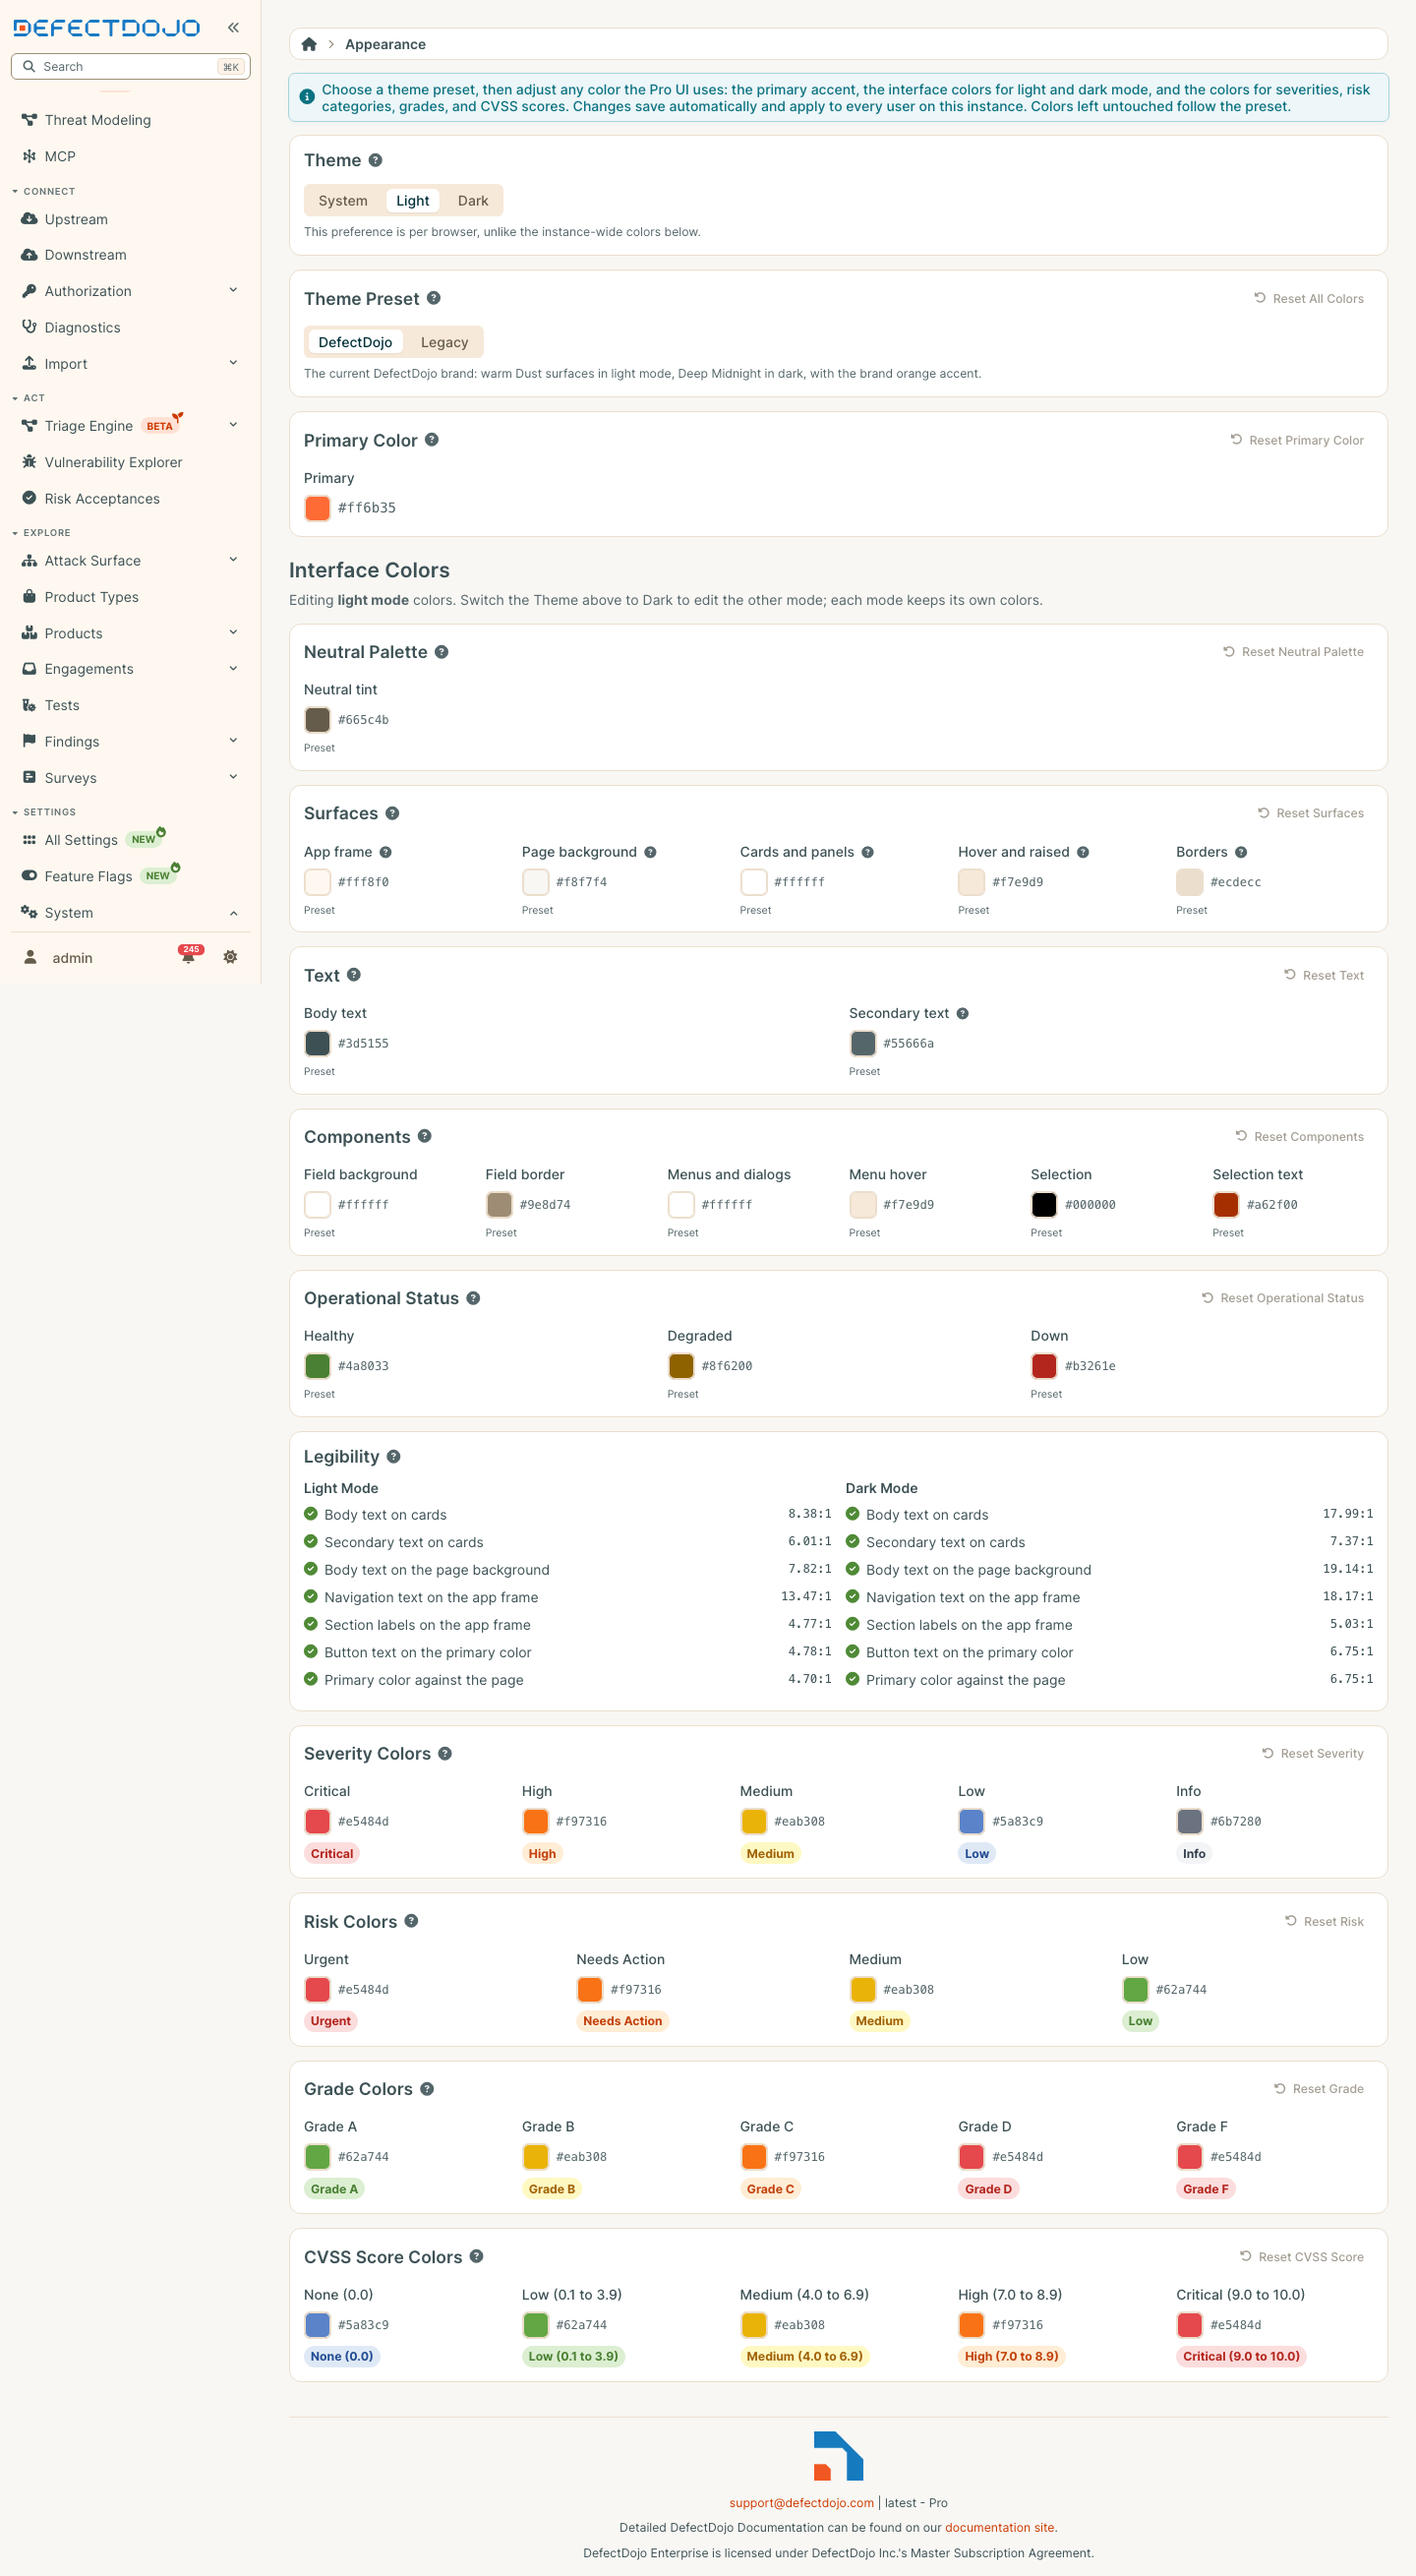
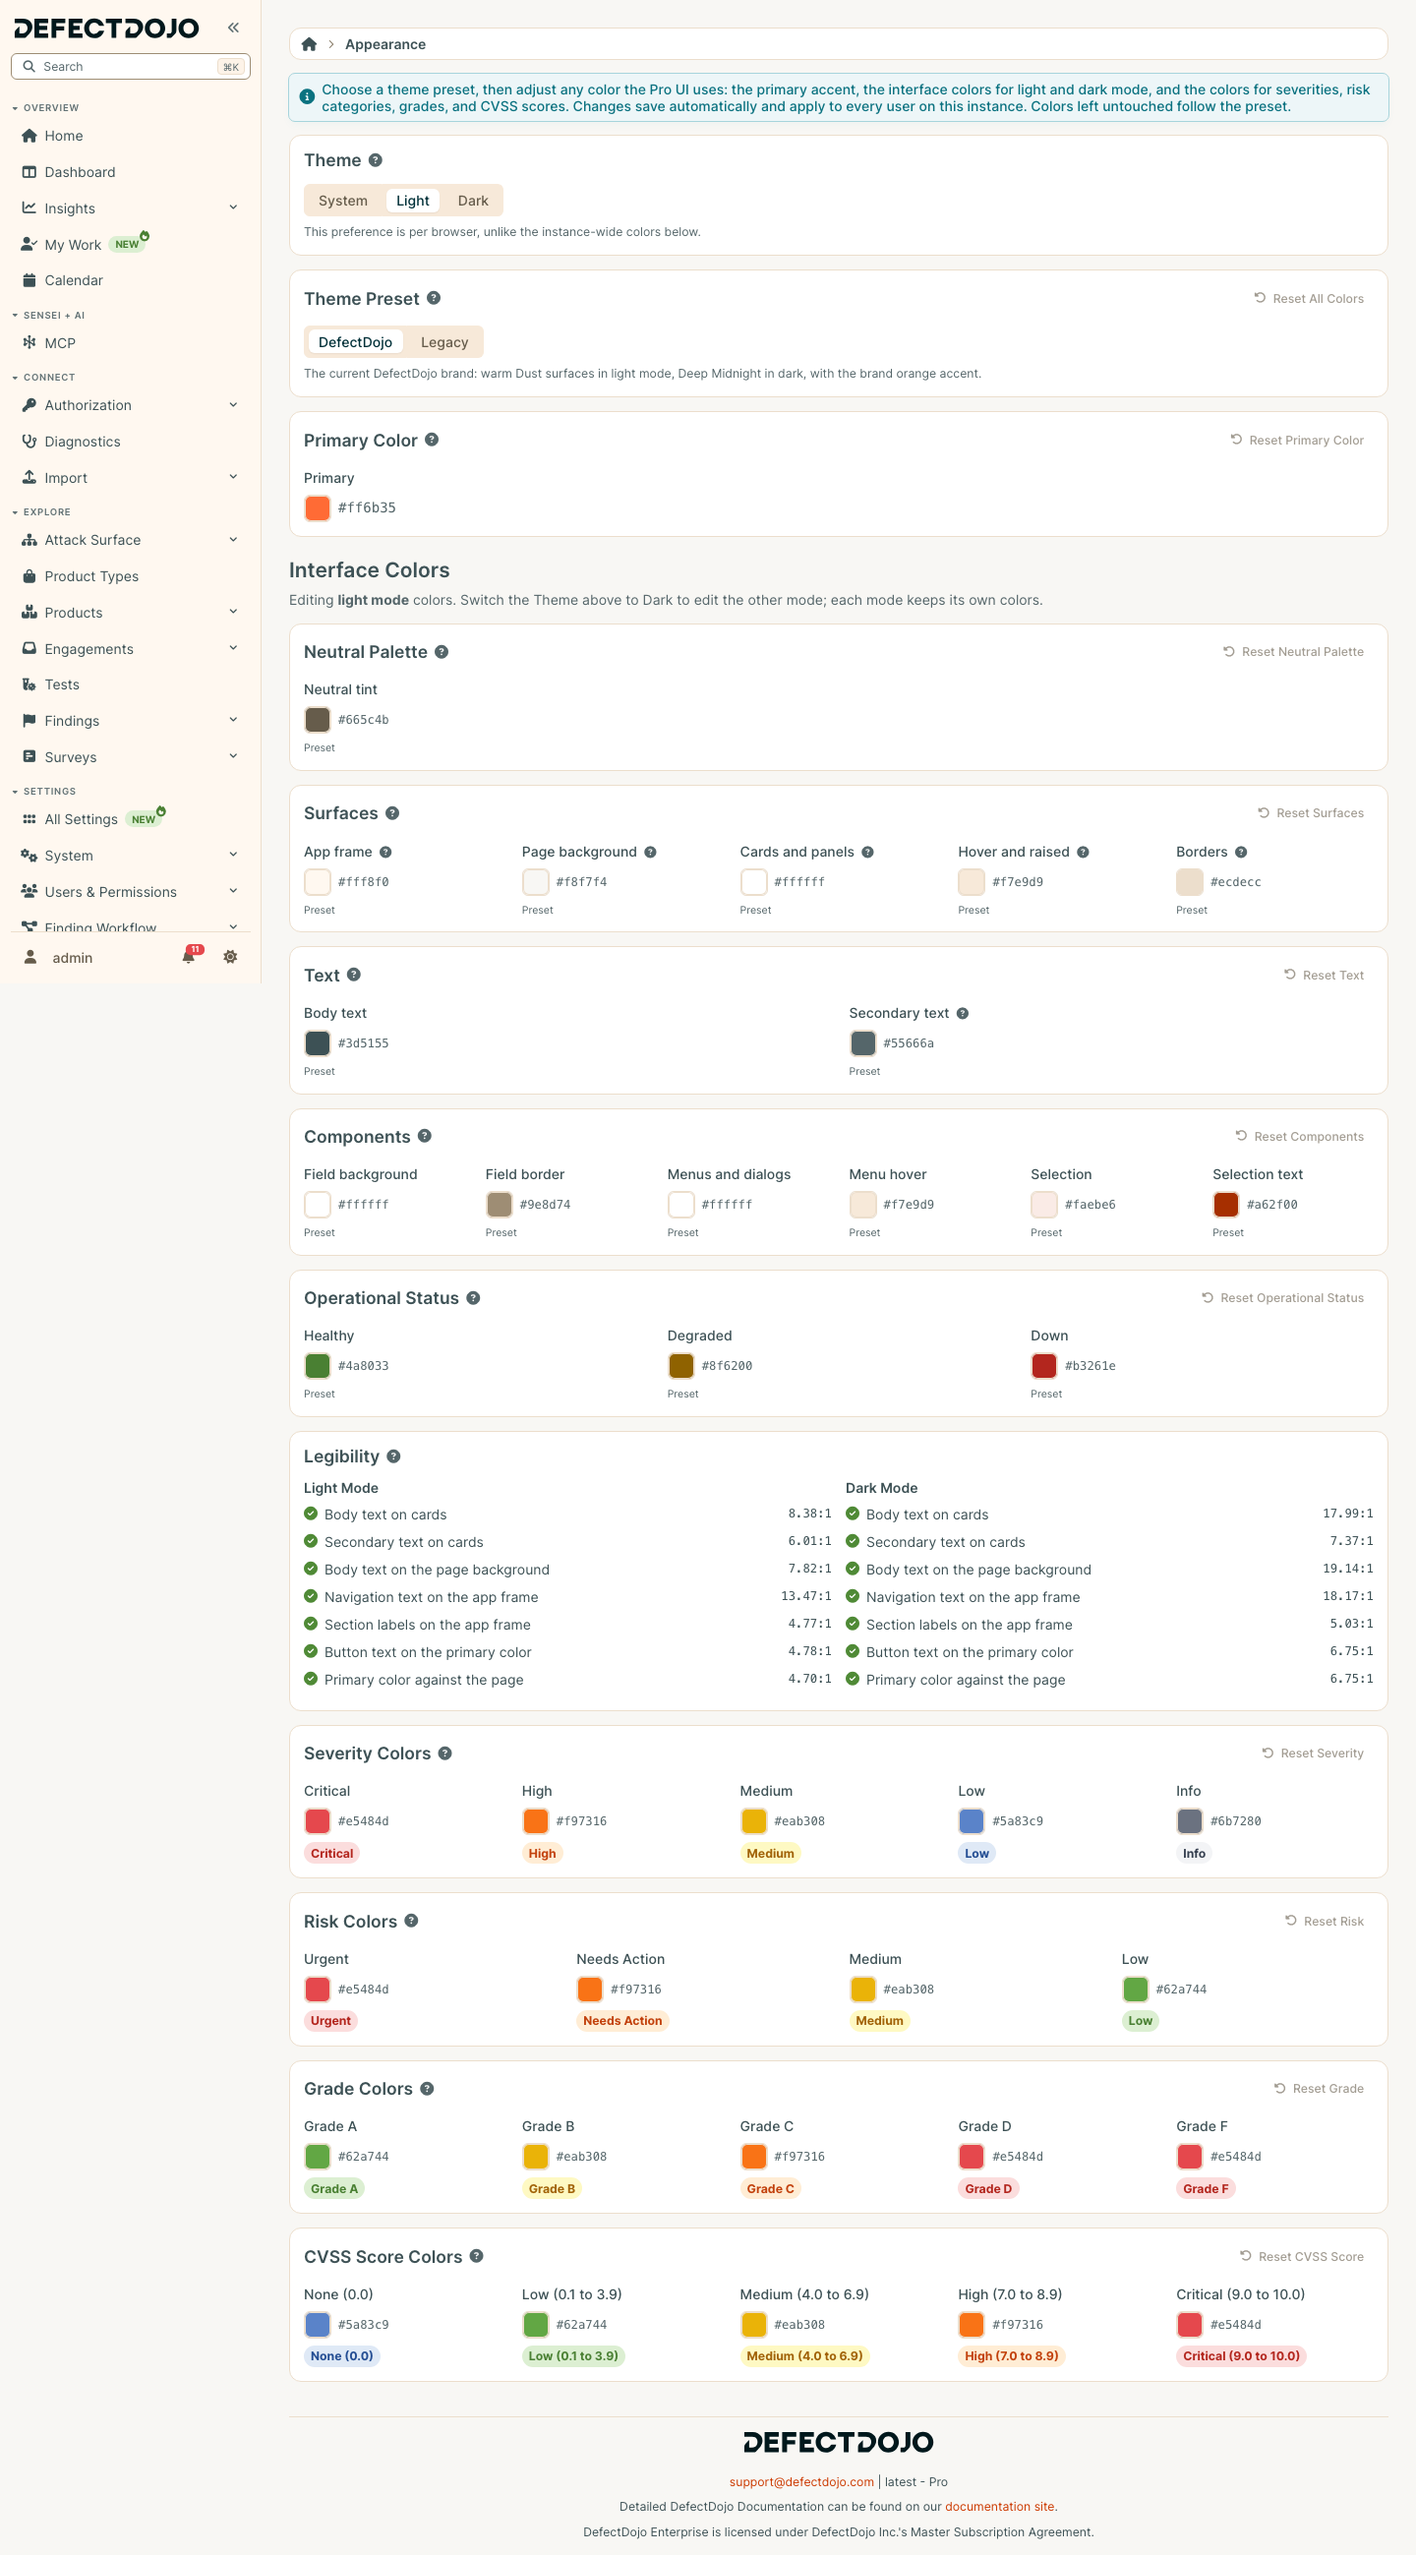
docs(appearance): reports follow the Appearance theme; new report themes start from it
- Appearance: a Reports and exports section (metrics and dashboard PDF exports,
  Report Builder charts including scheduled reports, reports with no theme,
  and new report themes all use the instance's light-mode colors).
- Report Builder: the theme defaults table now describes the instance-derived
  starting colors instead of fixed hex values.
- Retake the Appearance screenshot with the current logo.

diff --git a/docs/content/admin/appearance/PRO__appearance.md b/docs/content/admin/appearance/PRO__appearance.md
@@ -58,6 +58,17 @@ Only problems your changes introduce stop a save. A preset's own default colors 
 
 The severity, risk, grade, and CVSS score colors are the same in light and dark mode. They are used on tags, charts, and gauges throughout the Pro UI. Each group has its own reset button.
 
+## Reports and exports
+
+Everything DefectDojo prints follows these settings, always in light mode because reports are printed on a white page:
+
+* **Metrics and dashboard PDF exports** use your light-mode colors, even when the person exporting works in dark mode.
+* **Report Builder charts** use your preset, your metric colors, and your light-mode text colors, whether the report is generated from the browser, through the API, or on a schedule.
+* **Reports with no theme selected** take their colors from your primary color and your light-mode text colors. The primary color is darkened where needed so headings and table headers stay readable on white.
+* **New report themes** start from those same colors, so you only change what should differ from the instance.
+
+Existing report themes keep the colors they were saved with.
+
 ## Automating appearance settings
 
 The same settings are available through the API as the `ui_color_theme` field of `/api/v2/system_settings/{id}/`. It is a partial object: include only what you want to customize, and send an empty object to return to the preset defaults. The API applies the same readability rule to text and surface colors stored together.

diff --git a/docs/content/metrics_reports/reports/PRO__report_builder.md b/docs/content/metrics_reports/reports/PRO__report_builder.md
@@ -29,15 +29,15 @@ The Report Builder is made of four pieces, each available as a REST resource und
 
 A **Theme** controls the visual style and branding of a report: the colors, the header and footer imagery, and the footer text. By defining a Theme once, you can apply consistent corporate branding to every report you produce.
 
-A Theme has the following settings:
+A Theme has the following settings. A new Theme starts from the colors set on the [Appearance](/admin/appearance/pro__appearance/) page, and a report with no Theme selected uses those same colors.
 
 | Setting | Purpose | Default |
 |---------|---------|---------|
 | Name | A label for the Theme | — |
-| Primary color | Main brand color | `#1e3a5f` |
-| Secondary color | Supporting brand color | `#4a90a4` |
-| Accent color | Highlight color | `#e67e22` |
-| Text color | Body text color | `#333333` |
+| Primary color | Main brand color: headings and table headers | Your instance's primary color, darkened where needed to stay readable on white |
+| Secondary color | Supporting brand color | Your instance's secondary text color |
+| Accent color | Highlight color: the cover bar and table of contents numbers | Your instance's primary color |
+| Text color | Body text color | Your instance's body text color |
 | Background color | Page background color | `#ffffff` |
 | Footer text | Text shown in the page footer | — |
 | Show page numbers | Whether to print page numbers | On |
